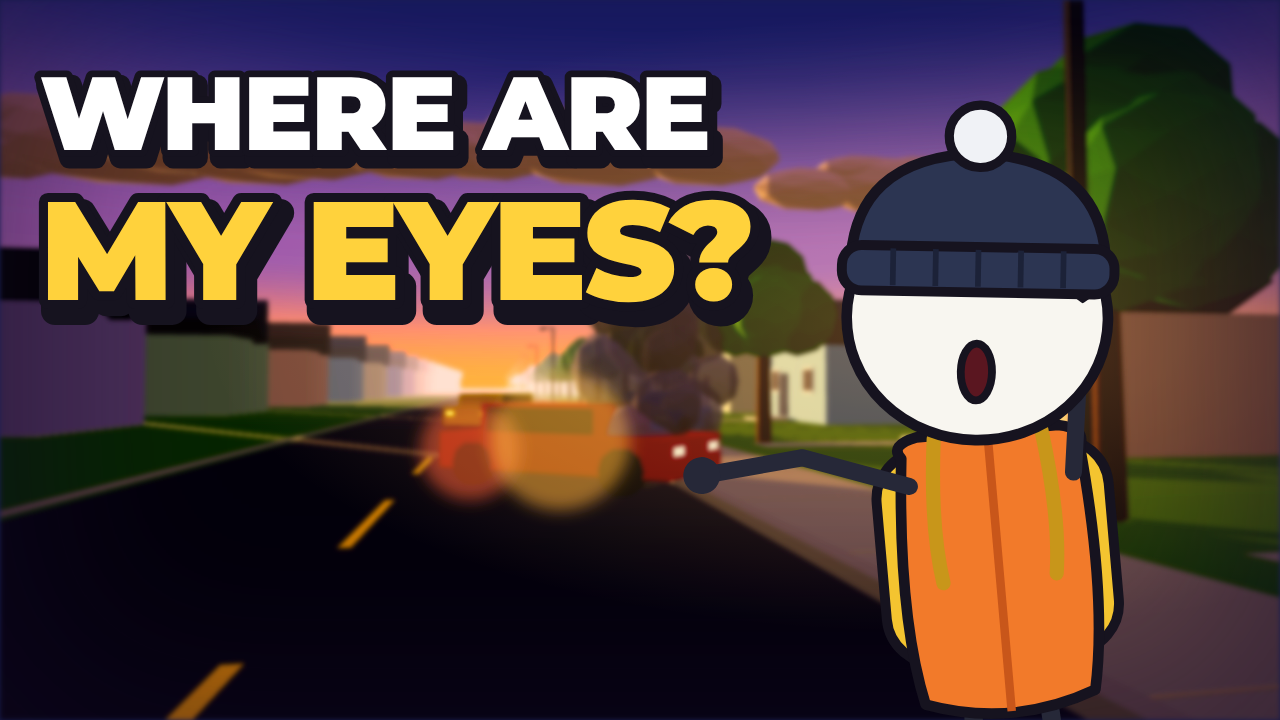
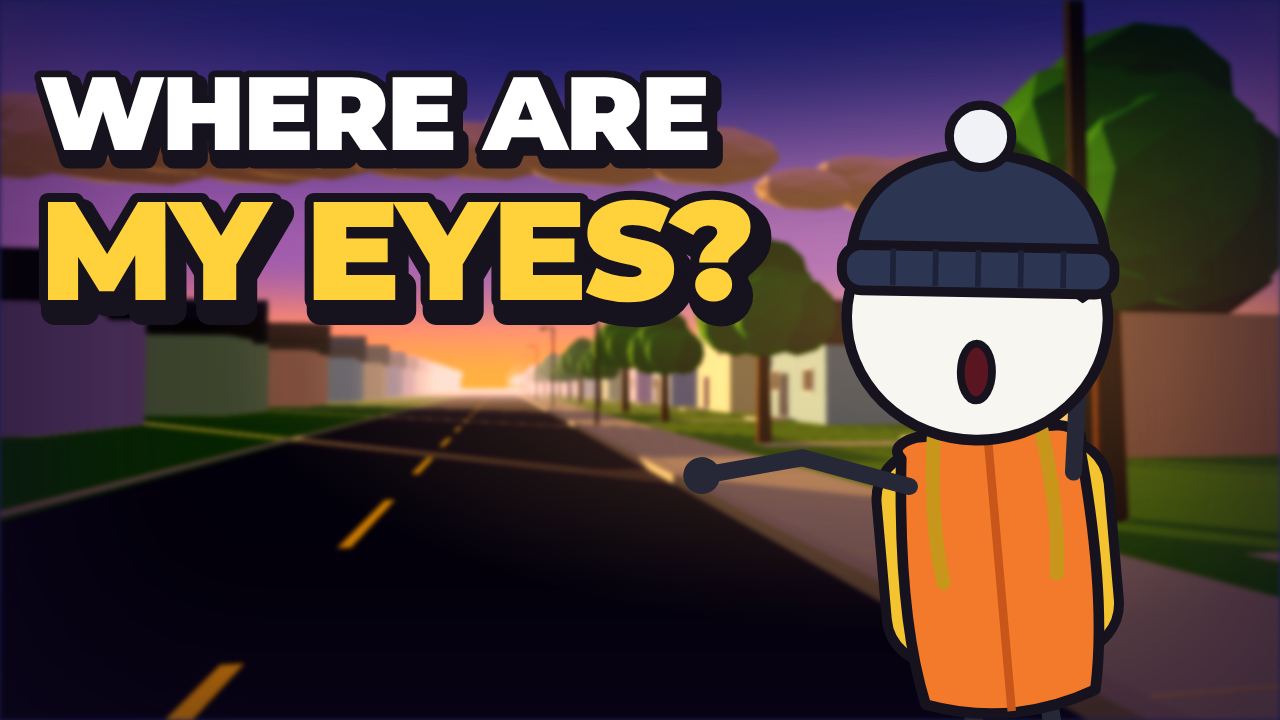
Eyes thumbnail: empty street, hero only
Claude-Session: https://claude.ai/code/session_01SBpnoeR5XH6rhPaa72jgNB

Changed region(s): [[0.3125, 0.4278, 0.6875, 0.7333], [0.875, 0.6417, 0.9375, 0.6722]]

diff --git a/src/brand/thumb2.tsx b/src/brand/thumb2.tsx
@@ -4,20 +4,13 @@
 import { ThreeCanvas } from "@remotion/three";
 import React from "react";
 import { AbsoluteFill, continueRender, delayRender, staticFile, useVideoConfig } from "remotion";
-import { CamRig, Car3D, MOODS, Street, V3, World } from "../lowpoly/kit3d";
+import { CamRig, MOODS, Street, World } from "../lowpoly/kit3d";
 import { Bean, BeanDefs, HERO2D } from "../toontest/bean";
 
 const h = delayRender("thumb fonts");
 new FontFace("ThumbMont", `url(${staticFile("towers/fonts/Montserrat-latin.woff2")}) format("woff2")`, { weight: "100 900" }).load().then((f) => { document.fonts.add(f); continueRender(h); });
 const INK = "#16131f";
 
-const Smoke: React.FC<{ p: V3; s: number }> = ({ p, s }) => (
-  <group position={p}>
-    {[[0, 0, 0, 1], [0.6, 0.9, 0.2, 0.8], [-0.5, 1.6, -0.1, 0.9], [0.3, 2.5, 0, 1.1], [-0.2, 3.5, 0.2, 1.3]].map(([x, y, z, r], i) => (
-      <mesh key={i} position={[x * s, y * s, z * s]}><icosahedronGeometry args={[r * s, 1]} /><meshStandardMaterial color={i % 2 ? "#6a6470" : "#8a8490"} transparent opacity={0.85} flatShading /></mesh>
-    ))}
-  </group>
-);
 const Background: React.FC = () => {
   const { width, height } = useVideoConfig();
   return (
@@ -25,11 +18,6 @@ const Background: React.FC = () => {
       <CamRig pos={[-2.6, 1.5, 9]} look={[1.2, 2.2, -12]} fov={50} />
       <World m={{ ...MOODS.sunset, sunDir: [-30, 6, -40] }} focus={[0, 0, -6]} />
       <Street />
-      <Car3D p={[-1.4, 0, -3]} rotY={0.9} c="#d8443a" hazard f={4} />
-      <Car3D p={[1.6, 0.12, -11]} rotY={-0.5} c="#3a6ad8" hazard f={0} />
-      <Car3D p={[-2.6, 0, -18]} rotY={2.6} c="#f2c230" hazard f={4} />
-      <Smoke p={[-0.6, 0.6, -2.4]} s={0.7} />
-      <Smoke p={[2.2, 0.8, -10.4]} s={0.9} />
     </ThreeCanvas>
   );
 };
@@ -48,8 +36,6 @@ export const ThumbEyes2: React.FC = () => (
     <svg width={1280} height={720} viewBox="0 0 1280 720" style={{ position: "absolute" }}>
       <BeanDefs />
       <defs><filter id="far" x="-50%" y="-50%" width="200%" height="200%"><feGaussianBlur stdDeviation="1.6" /></filter></defs>
-      {/* мигалки разбитых машин */}
-      {[[560, 440, 70], [470, 450, 50]].map(([x, y, r], i) => <circle key={i} cx={x} cy={y} r={r} fill={i % 2 ? "rgba(255,90,40,0.55)" : "rgba(255,170,40,0.55)"} filter="url(#beanBlur)" style={{ mixBlendMode: "screen" }} />)}
       {/* герой без глаз в панике: одна рука трогает лицо, другая шарит в воздухе */}
       <Bean x={1010} y={930} s={1.42} look={HERO2D} expr="shock" open={1} f={10} noEyes sweat pose={{ armL: [110, -25], armR: [172, 96], lean: -5, tilt: 6 }} />
       <Title x={40} y={150} size={104} fill="#ffffff">WHERE ARE</Title>
